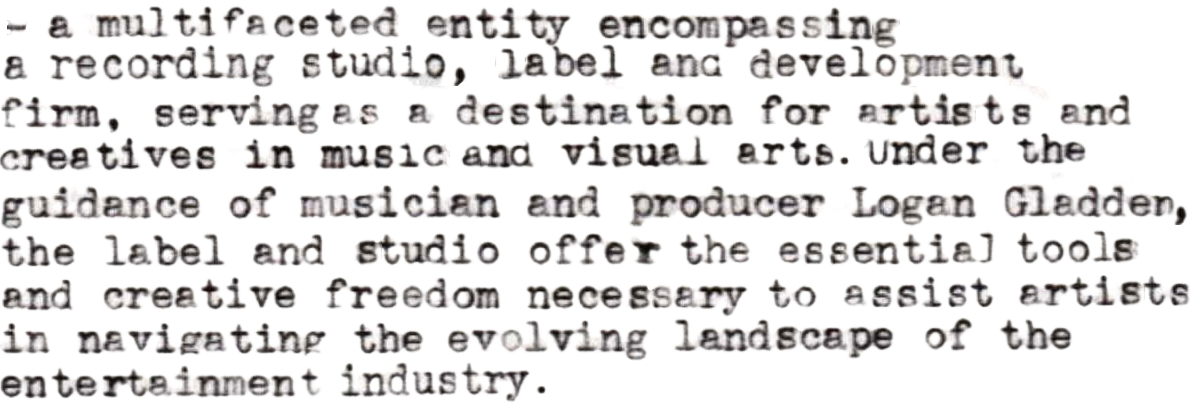
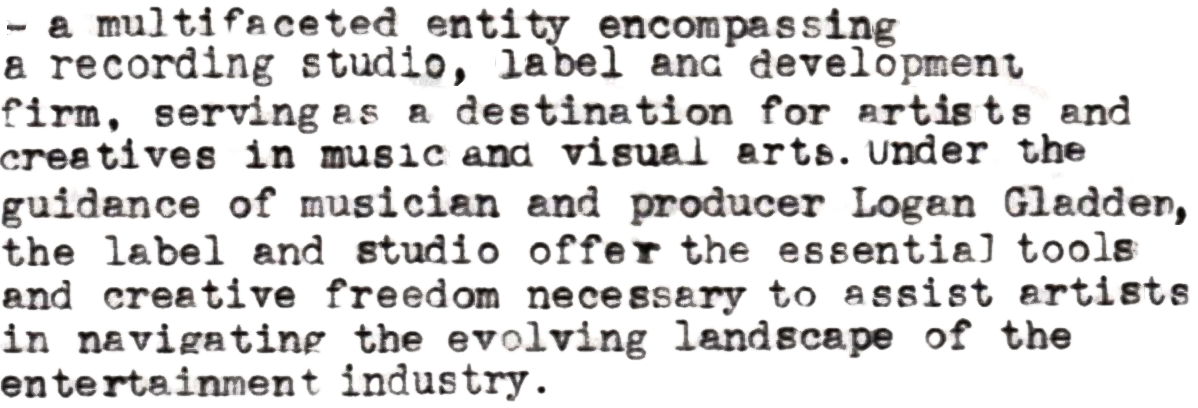
Added rareroom title on every nav page

diff --git a/scripts/index.js b/scripts/index.js
@@ -51,6 +51,7 @@ const [
   $settingsBorder,
   $pollishLink,
   $artistsDiv,
+  $rareroomTitle,
 ] = [
   'background-content',
   'background-picture',
@@ -70,6 +71,7 @@ const [
   'settings-border',
   'pollish-link',
   'artists-div',
+  'rareroom-title',
 ].map((id) => document.getElementById(id));
 const [[$nav, $bandsNav], $$aboutParagraphImgs, $$contacts, [$aboutLink]] = [
   'nav',
@@ -385,6 +387,10 @@ function stateChanged(withMorse) {
         element: $nav,
         displayMode: 'block',
       },
+      {
+        element: $rareroomTitle,
+        displayMode: 'none',
+      },
     ]);
     if (withMorse) {
       playMorse(homeAudio, '.-. .- .-. . .-. --- --- --');
@@ -443,6 +449,7 @@ function switchPage(selectedNavButton, elementSettings) {
       element.style.display = 'none';
     }
   );
+  [$rareroomTitle].forEach((element) => (element.style.display = 'block'));
   elementSettings.forEach((elementSetting) => {
     elementSetting.element.style.display = elementSetting.displayMode;
   });

diff --git a/index.html b/index.html
@@ -54,8 +54,8 @@
                 src="/images/artists-morse.png" /></span>
           </span>
         </nav>
-        <img style="display: none" class="about title" src="/images/about-paragraph-title_sharpened.png" />
-        <img style="display: none" class="about content" src="/images/about-paragraph_sharpened.png" />
+        <img style="display: none" id="rareroom-title" src="/images/rareroom-title.png" />
+        <img style="display: none" class="about content" src="/images/about-paragraph.png" />
         <a style="display: none" id='pollish-link' class='image-a' href='https://www.pollishtheproject.com/'>Logan
           Gladden</a>
         <img style="display: none" src='/images/contact-paragraph.png' alt="Contact Paragraph" class='contact'>

diff --git a/styles/index.css b/styles/index.css
@@ -236,13 +236,13 @@ main.inverted #bands-nav img {
   filter: invert(100%);
 }
 
-main > div #content img.about.title {
+main > div #content #rareroom-title {
   width: 4rem;
   margin: auto;
+  margin-bottom: 0.5rem;
 }
 
-main > div #content img.about:not(.title) {
-  margin-top: 0.5rem;
+main > div #content img.about {
   width: 20rem;
   /* transform: translateX(25%); */
   transform: translateX(5%);
